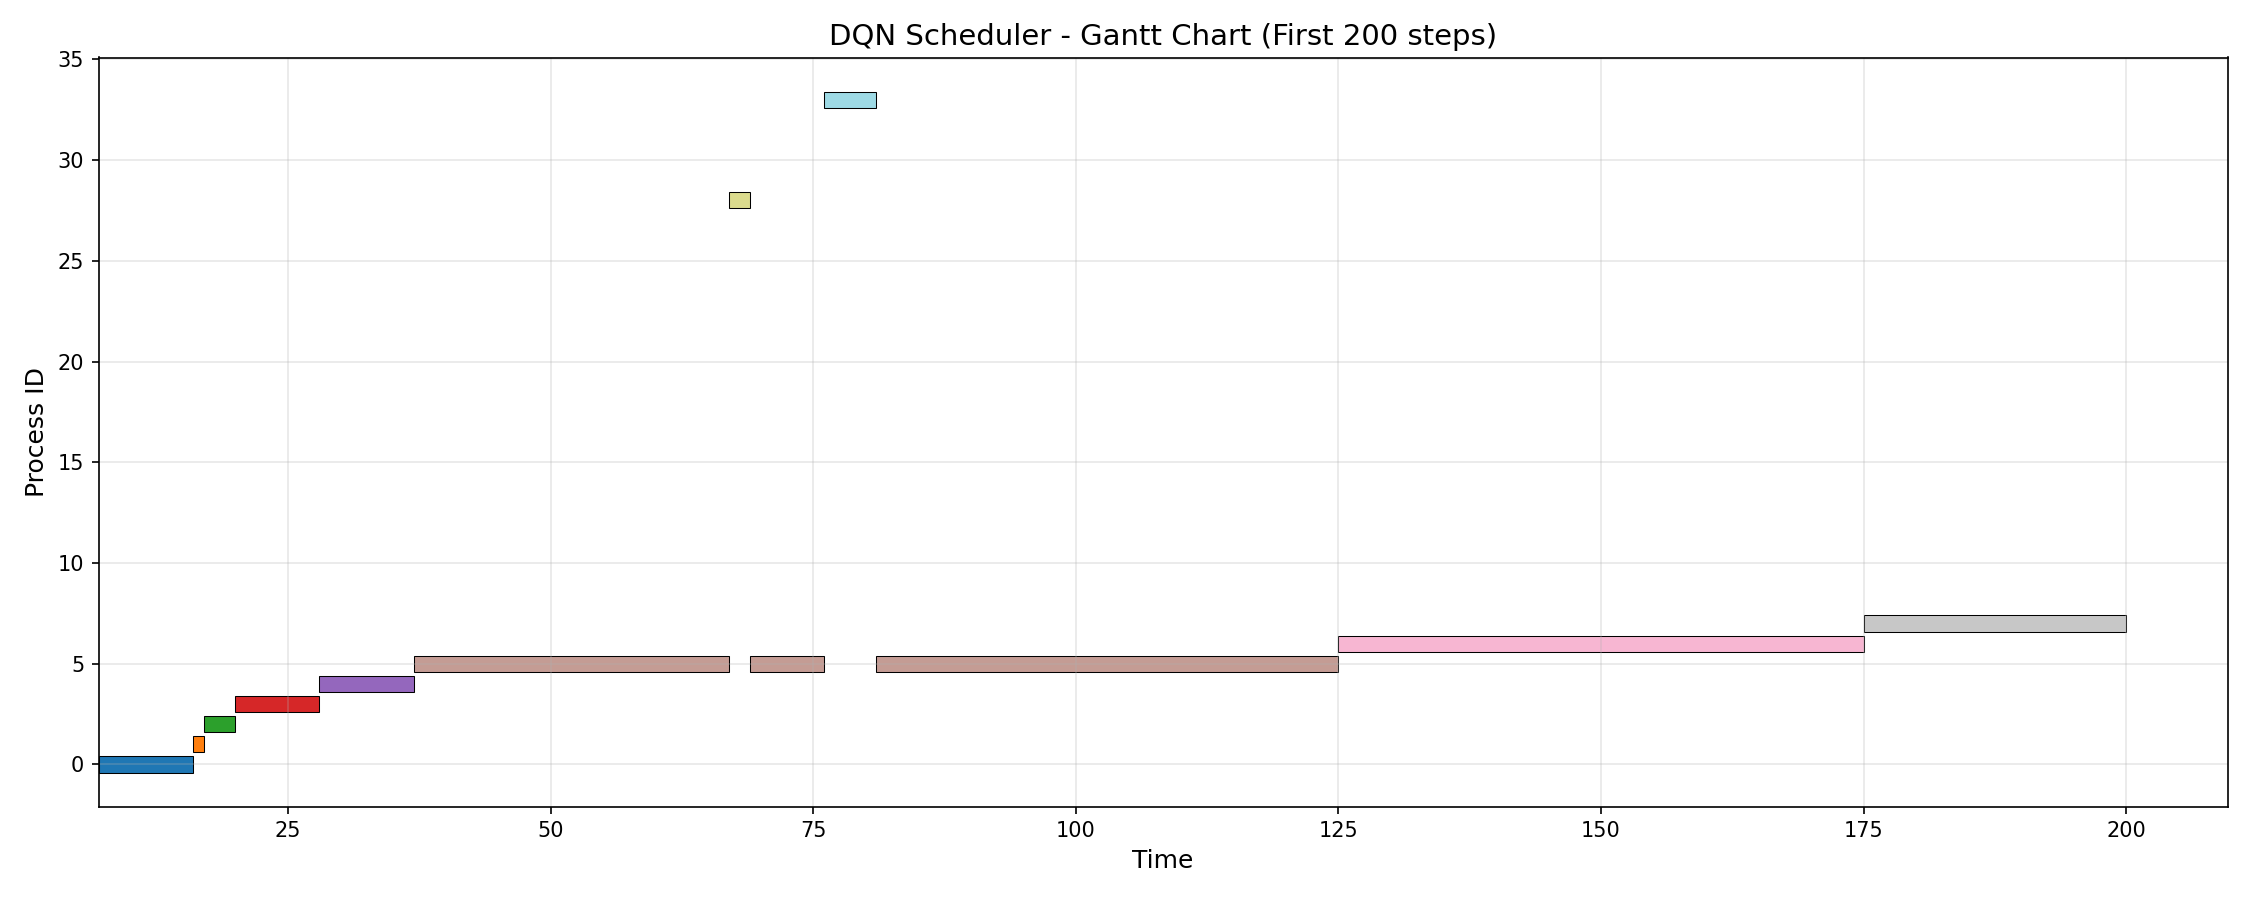
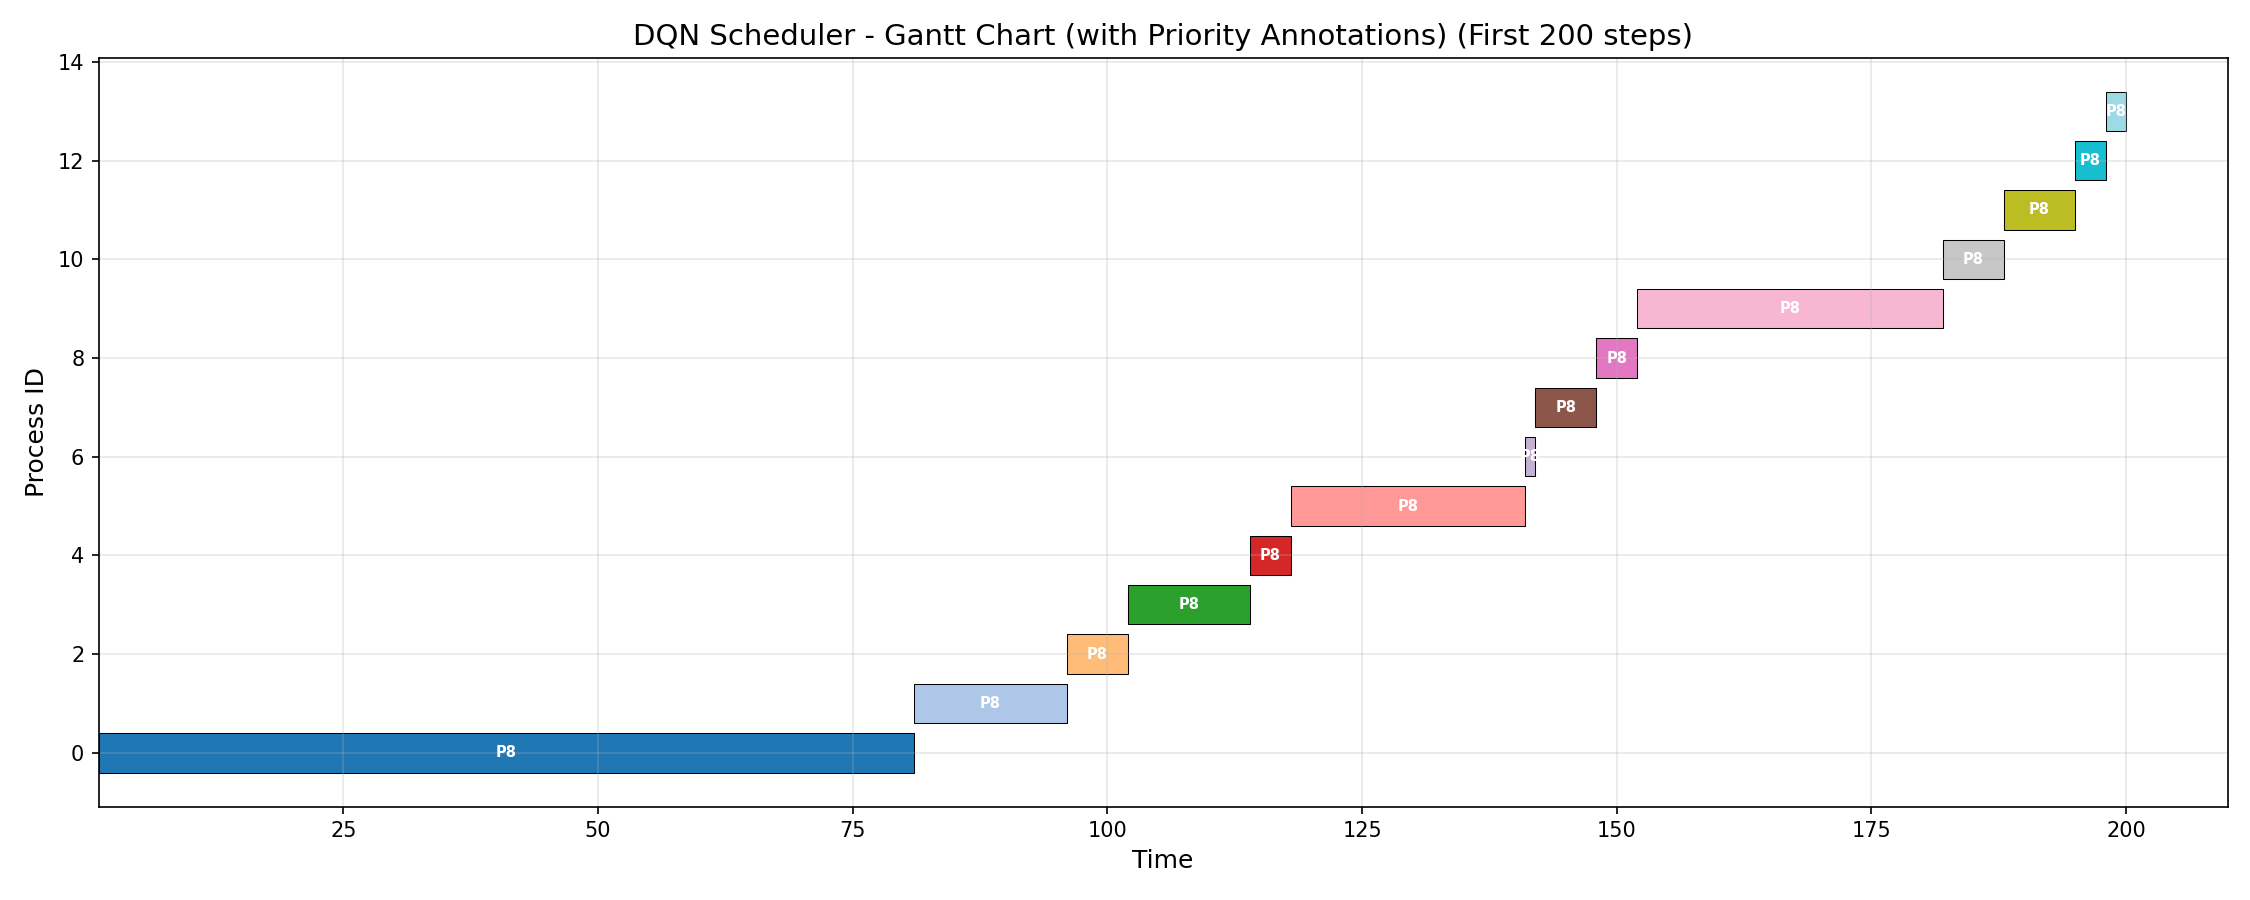
display assigned priority in demo_scheduling

diff --git a/demo_scheduling.py b/demo_scheduling.py
@@ -3,8 +3,8 @@ import numpy as np
 import matplotlib.pyplot as plt
 from tabulate import tabulate
 
-def plot_gantt(gantt_data, scheduler_name, num_processes=50, save_path=None):
-    """Plot Gantt chart for a scheduler"""
+def plot_gantt(gantt_data, scheduler_name, num_processes=50, save_path=None, gantt_priority=None):
+    """Plot Gantt chart for a scheduler, with optional priority annotations"""
     
     fig, ax = plt.subplots(figsize=(15, 6))
     
@@ -17,34 +17,59 @@ def plot_gantt(gantt_data, scheduler_name, num_processes=50, save_path=None):
     colors = plt.cm.tab20(np.linspace(0, 1, len(unique_pids)))
     color_map = {pid: colors[i % len(colors)] for i, pid in enumerate(unique_pids)}
     
-    time_step = 0
+    # Build a priority-per-pid lookup for coloring
+    has_priority = gantt_priority is not None and len(gantt_priority) == len(gantt_data)
+    if has_priority:
+        pid_priority = {}
+        for pid, pri in zip(gantt_data, gantt_priority):
+            if pid != -1 and pri != -1:
+                pid_priority[pid] = pri
+    
     current_start = 0
     current_pid = gantt_data[0] if gantt_data else -1
+    current_pri = gantt_priority[0] if has_priority else None
     
     for i, pid in enumerate(gantt_data):
-        if pid != current_pid:
-            # Draw segment for previous process
+        pri_at_i = gantt_priority[i] if has_priority else None
+        if pid != current_pid or (has_priority and pri_at_i != current_pri):
             if current_pid != -1 and current_pid in color_map:
-                ax.barh(current_pid, i - current_start, left=current_start, 
-                       height=0.8, color=color_map[current_pid], edgecolor='black', linewidth=0.5)
+                bar = ax.barh(current_pid, i - current_start, left=current_start,
+                             height=0.8, color=color_map[current_pid],
+                             edgecolor='black', linewidth=0.5)
+                if has_priority and current_pri is not None and current_pri != -1:
+                    mid = current_start + (i - current_start) / 2
+                    ax.text(mid, current_pid, f'P{int(current_pri)}',
+                           ha='center', va='center', fontsize=7, fontweight='bold',
+                           color='white' if current_pri > 5 else 'black')
             current_start = i
             current_pid = pid
+            if has_priority:
+                current_pri = pri_at_i
     
-    # Draw last segment
     if current_pid != -1 and current_pid in color_map:
-        ax.barh(current_pid, len(gantt_data) - current_start, left=current_start,
-               height=0.8, color=color_map[current_pid], edgecolor='black', linewidth=0.5)
+        bar = ax.barh(current_pid, len(gantt_data) - current_start, left=current_start,
+                     height=0.8, color=color_map[current_pid],
+                     edgecolor='black', linewidth=0.5)
+        if has_priority and current_pri is not None and current_pri != -1:
+            mid = current_start + (len(gantt_data) - current_start) / 2
+            ax.text(mid, current_pid, f'P{int(current_pri)}',
+                   ha='center', va='center', fontsize=7, fontweight='bold',
+                   color='white' if current_pri > 5 else 'black')
     
     ax.set_xlabel('Time', fontsize=12)
     ax.set_ylabel('Process ID', fontsize=12)
-    ax.set_title(f'{scheduler_name} Scheduler - Gantt Chart (First {len(gantt_data)} steps)', fontsize=14)
+    title = f'{scheduler_name} Scheduler - Gantt Chart'
+    if has_priority:
+        title += ' (with Priority Annotations)'
+    title += f' (First {len(gantt_data)} steps)'
+    ax.set_title(title, fontsize=14)
     ax.grid(True, alpha=0.3)
     
     plt.tight_layout()
     
     if save_path:
         plt.savefig(save_path, dpi=150)
-        print(f"  📊 Gantt chart saved to: {save_path}")
+        print(f"  Gantt chart saved to: {save_path}")
     
     plt.show()
     return fig
@@ -93,6 +118,7 @@ def live_demo_with_gantt(dataset, num_processes=50, show_gantt=False):
     
     results = []
     gantt_data = {}
+    gantt_priority_data = {}
     
     print("\n" + "="*80)
     print("LIVE SCHEDULER DEMO (with Gantt)")
@@ -114,6 +140,8 @@ def live_demo_with_gantt(dataset, num_processes=50, show_gantt=False):
             
             # Store gantt chart data (first 200 steps)
             gantt_data[name] = sched.gantt[:200] if hasattr(sched, 'gantt') else []
+            gantt_priority_data[name] = (sched.gantt_priority[:200] 
+                                         if hasattr(sched, 'gantt_priority') else None)
             
             results.append({
                 'Scheduler': name,
@@ -144,6 +172,7 @@ def live_demo_with_gantt(dataset, num_processes=50, show_gantt=False):
                 'Gantt Length': 0
             })
             gantt_data[name] = []
+            gantt_priority_data[name] = None
             
         except Exception as e:
             print(f"  ❌ Error: {e}")
@@ -157,6 +186,7 @@ def live_demo_with_gantt(dataset, num_processes=50, show_gantt=False):
                 'Gantt Length': 0
             })
             gantt_data[name] = []
+            gantt_priority_data[name] = None
     
     # Display results table
     print("\n" + "="*80)
@@ -212,7 +242,8 @@ def live_demo_with_gantt(dataset, num_processes=50, show_gantt=False):
             plot_gantt(gantt_data[best_turnaround['Scheduler']], 
                       best_turnaround['Scheduler'], 
                       num_processes,
-                      save_path=f"gantt_{best_turnaround['Scheduler']}.png")
+                      save_path=f"gantt_{best_turnaround['Scheduler']}.png",
+                      gantt_priority=gantt_priority_data.get(best_turnaround['Scheduler']))
         
         # Optionally show all Gantt charts
         try:
@@ -222,7 +253,8 @@ def live_demo_with_gantt(dataset, num_processes=50, show_gantt=False):
                     if gantt_data.get(name) and name != best_turnaround['Scheduler']:
                         print(f"\n📊 Gantt Chart for {name}")
                         plot_gantt(gantt_data[name], name, num_processes,
-                                  save_path=f"gantt_{name}.png")
+                                  save_path=f"gantt_{name}.png",
+                                  gantt_priority=gantt_priority_data.get(name))
         except (EOFError, KeyboardInterrupt):
             print("\n  Skipping additional Gantt charts...")
     
@@ -236,7 +268,7 @@ if __name__ == "__main__":
     
     sys.path.insert(0, os.path.dirname(os.path.dirname(os.path.abspath(__file__))))
     
-    dataset_path = "./dataset/test/dataset_starvation_test.csv"
+    dataset_path = "./dataset/test/dataset_challenging_500.csv"
     
     if not os.path.exists(dataset_path):
         print(f"Dataset not found: {dataset_path}")

diff --git a/schedulers/ml_prio.py b/schedulers/ml_prio.py
@@ -61,6 +61,9 @@ class MLPriority(Scheduler):
         self.model_path = kwargs.get('model_path', 'model_weights/ppo_trained_model.pt')
         self.time_quantum = kwargs.get('time_quantum', 4)
         
+        # Priority history for Gantt chart visualization
+        self.gantt_priority = []
+        
         # ============================================================
         # DICTIONARY TRACKING FOR DYNAMIC STATE (9-feature observation)
         # ============================================================
@@ -128,6 +131,8 @@ class MLPriority(Scheduler):
         time = 0
         self.gantt = []
         
+        self.gantt_priority.clear()
+        
         # Clear tracking dictionaries for new run
         self.wait_since.clear()
         self.total_wait.clear()
@@ -172,6 +177,7 @@ class MLPriority(Scheduler):
                 
                 # Run for 1 time unit
                 self.gantt.append(pid)
+                self.gantt_priority.append(priority)
                 remaining -= 1
                 quantum_rem -= 1
                 time += 1
@@ -200,6 +206,7 @@ class MLPriority(Scheduler):
             else:
                 # No processes ready — idle tick
                 self.gantt.append(-1)
+                self.gantt_priority.append(-1)
                 time += 1
     
     def _get_priority(self, data_pointer: int, processes: list, current_time: int) -> int:

diff --git a/schedulers/dpo_prio.py b/schedulers/dpo_prio.py
@@ -54,6 +54,9 @@ class DPOPriority(Scheduler):
 
         self.time_quantum = kwargs.get('time_quantum', 4)
         
+        # Priority history for Gantt chart visualization
+        self.gantt_priority = []
+        
         # Dictionary tracking mirrors the training environment's internal
         # state, populating the dynamic features of the observation
         # (wait_time, last_run_time, time_since_last_run).
@@ -112,6 +115,7 @@ class DPOPriority(Scheduler):
         time = 0
         self.gantt = []
         
+        self.gantt_priority.clear()
         self.wait_since.clear()
         self.total_wait.clear()
         self.last_run_time.clear()
@@ -149,6 +153,7 @@ class DPOPriority(Scheduler):
                     self.first_run_time[pid] = time
                 
                 self.gantt.append(pid)
+                self.gantt_priority.append(priority)
                 remaining -= 1
                 quantum_rem -= 1
                 time += 1
@@ -173,6 +178,7 @@ class DPOPriority(Scheduler):
                     self.last_run_time.pop(pid, None)
             else:
                 self.gantt.append(-1)
+                self.gantt_priority.append(-1)
                 time += 1
 
     def _get_priority(self, data_pointer: int, processes: list, current_time: int) -> int:

diff --git a/schedulers/dqn_prio.py b/schedulers/dqn_prio.py
@@ -53,6 +53,9 @@ class DQNPriority(Scheduler):
 
         self.time_quantum = kwargs.get('time_quantum', 4)
         
+        # Priority history for Gantt chart visualization
+        self.gantt_priority = []
+        
         # Dictionary tracking mirrors the training environment
         self.wait_since = {}
         self.total_wait = {}
@@ -106,6 +109,7 @@ class DQNPriority(Scheduler):
         time = 0
         self.gantt = []
         
+        self.gantt_priority.clear()
         self.wait_since.clear()
         self.total_wait.clear()
         self.last_run_time.clear()
@@ -143,6 +147,7 @@ class DQNPriority(Scheduler):
                     self.first_run_time[pid] = time
                 
                 self.gantt.append(pid)
+                self.gantt_priority.append(priority)
                 remaining -= 1
                 quantum_rem -= 1
                 time += 1
@@ -167,6 +172,7 @@ class DQNPriority(Scheduler):
                     self.last_run_time.pop(pid, None)
             else:
                 self.gantt.append(-1)
+                self.gantt_priority.append(-1)
                 time += 1
 
     def _get_priority(self, data_pointer: int, processes: list, current_time: int) -> int:
